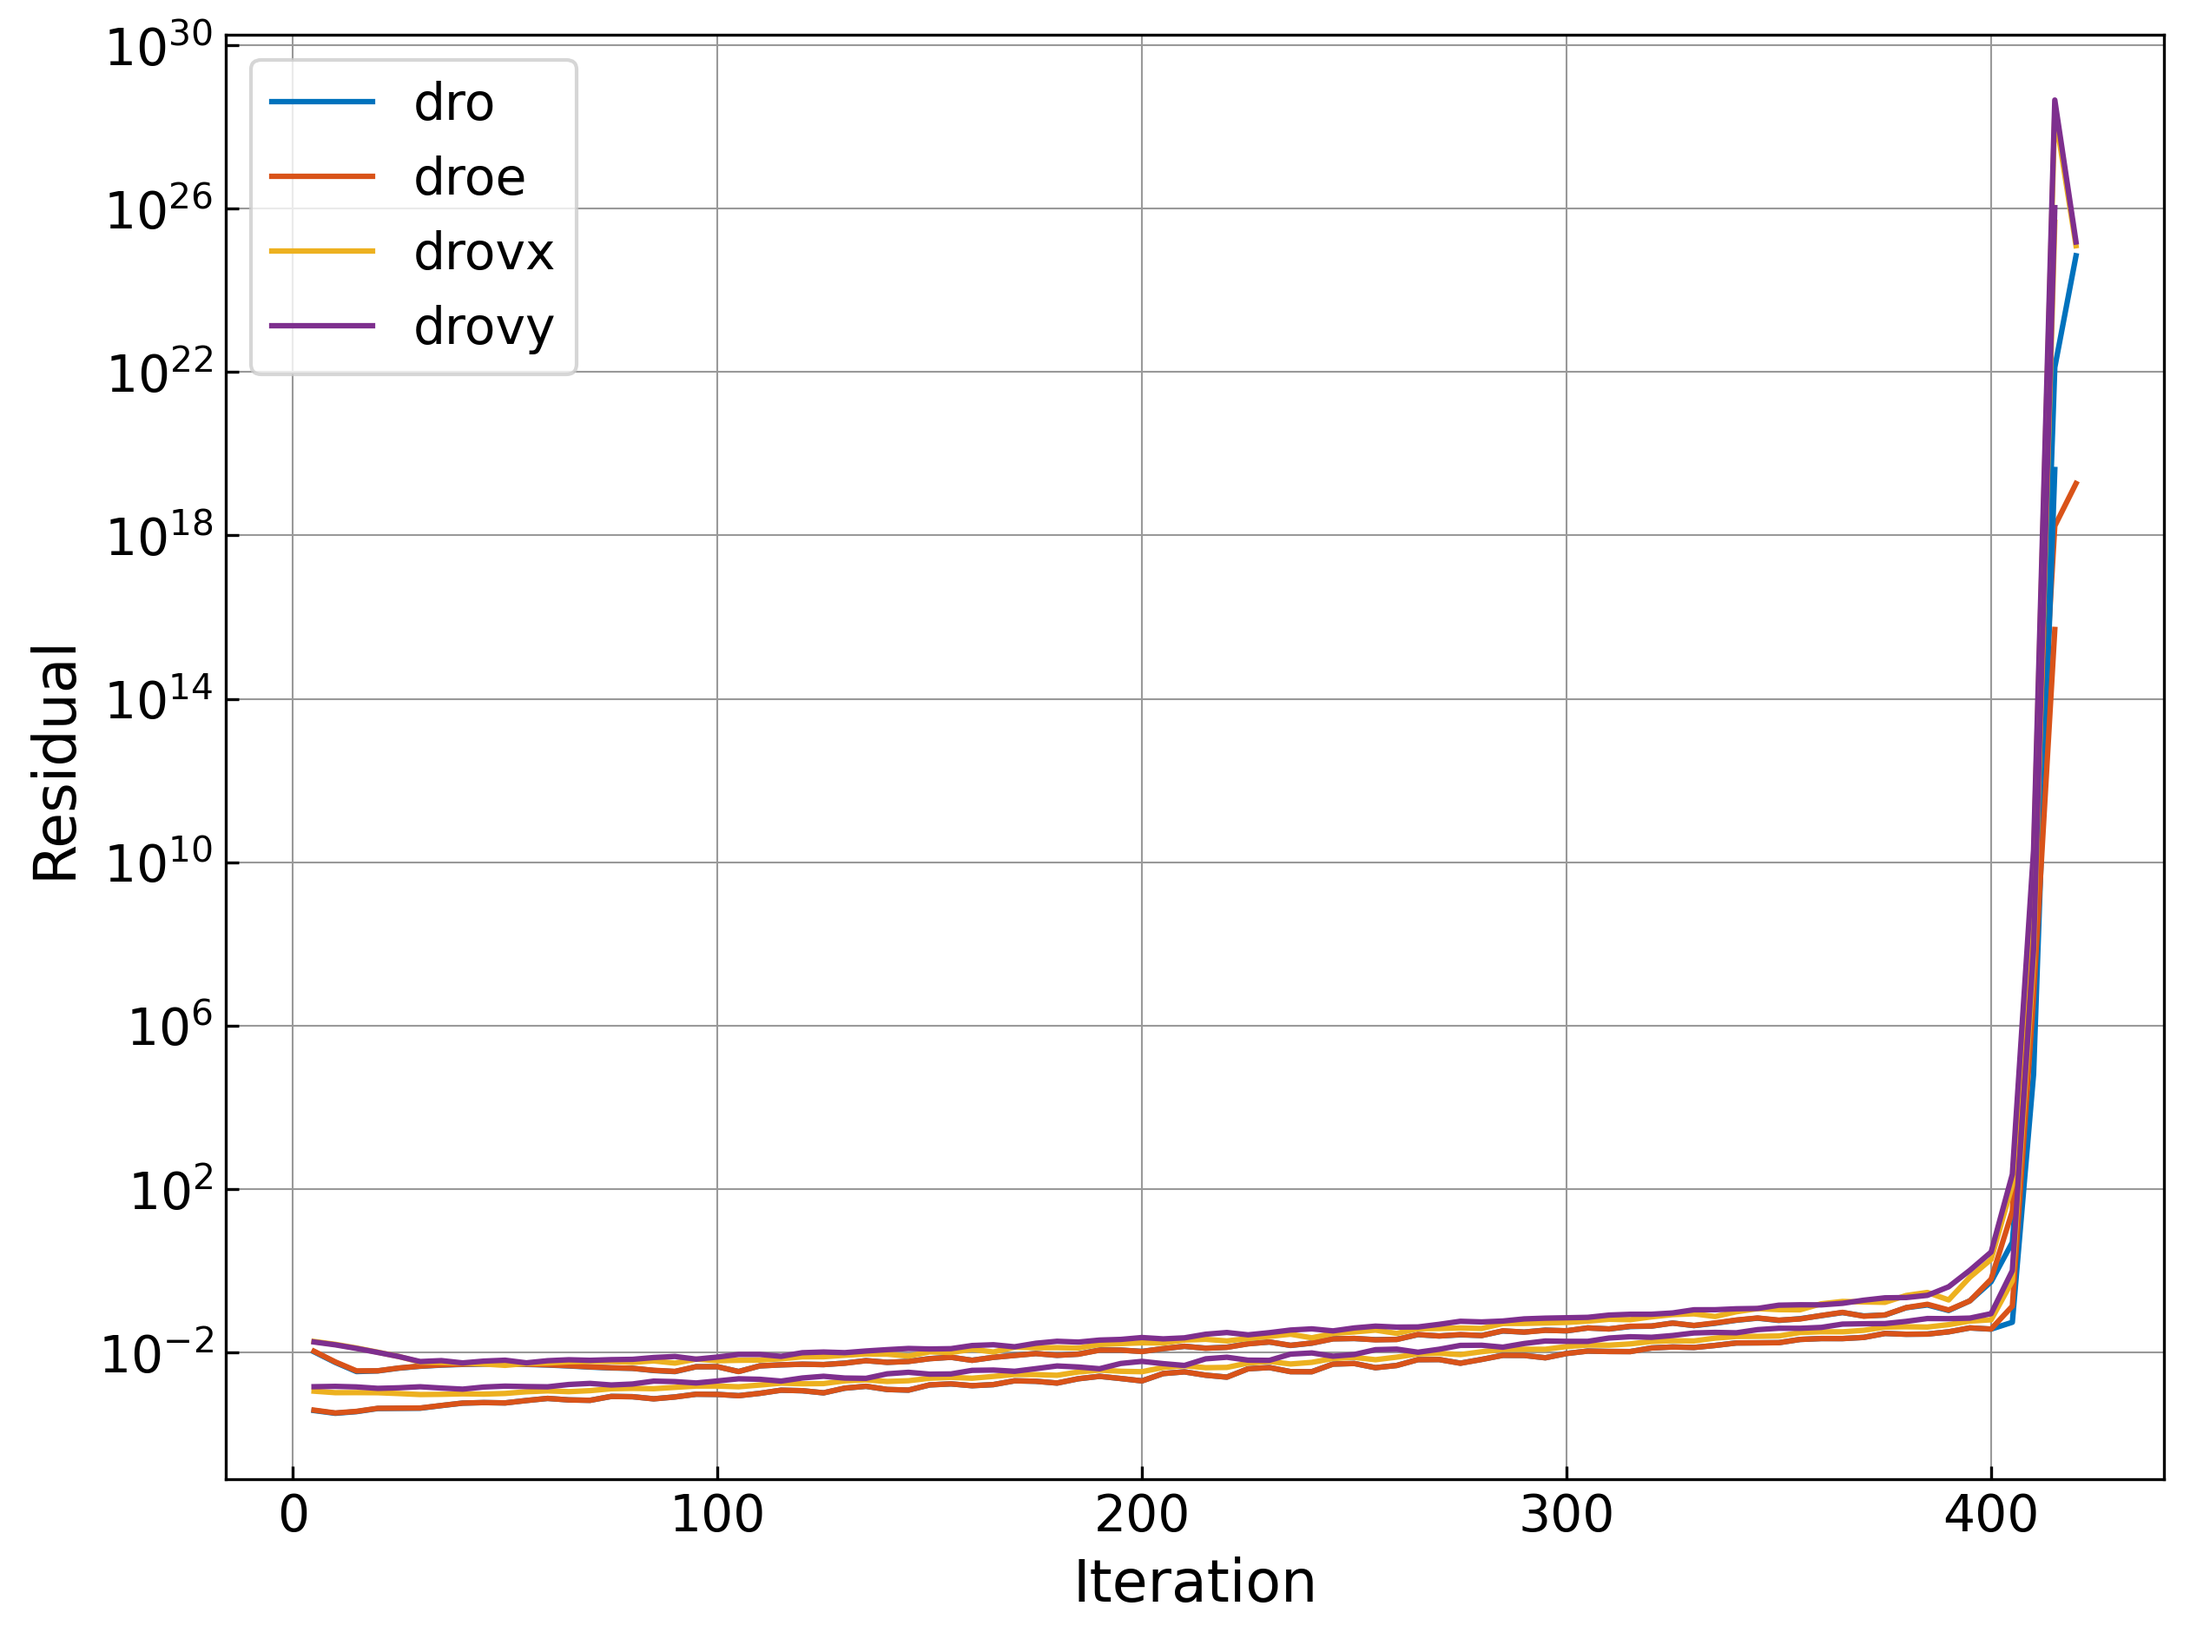
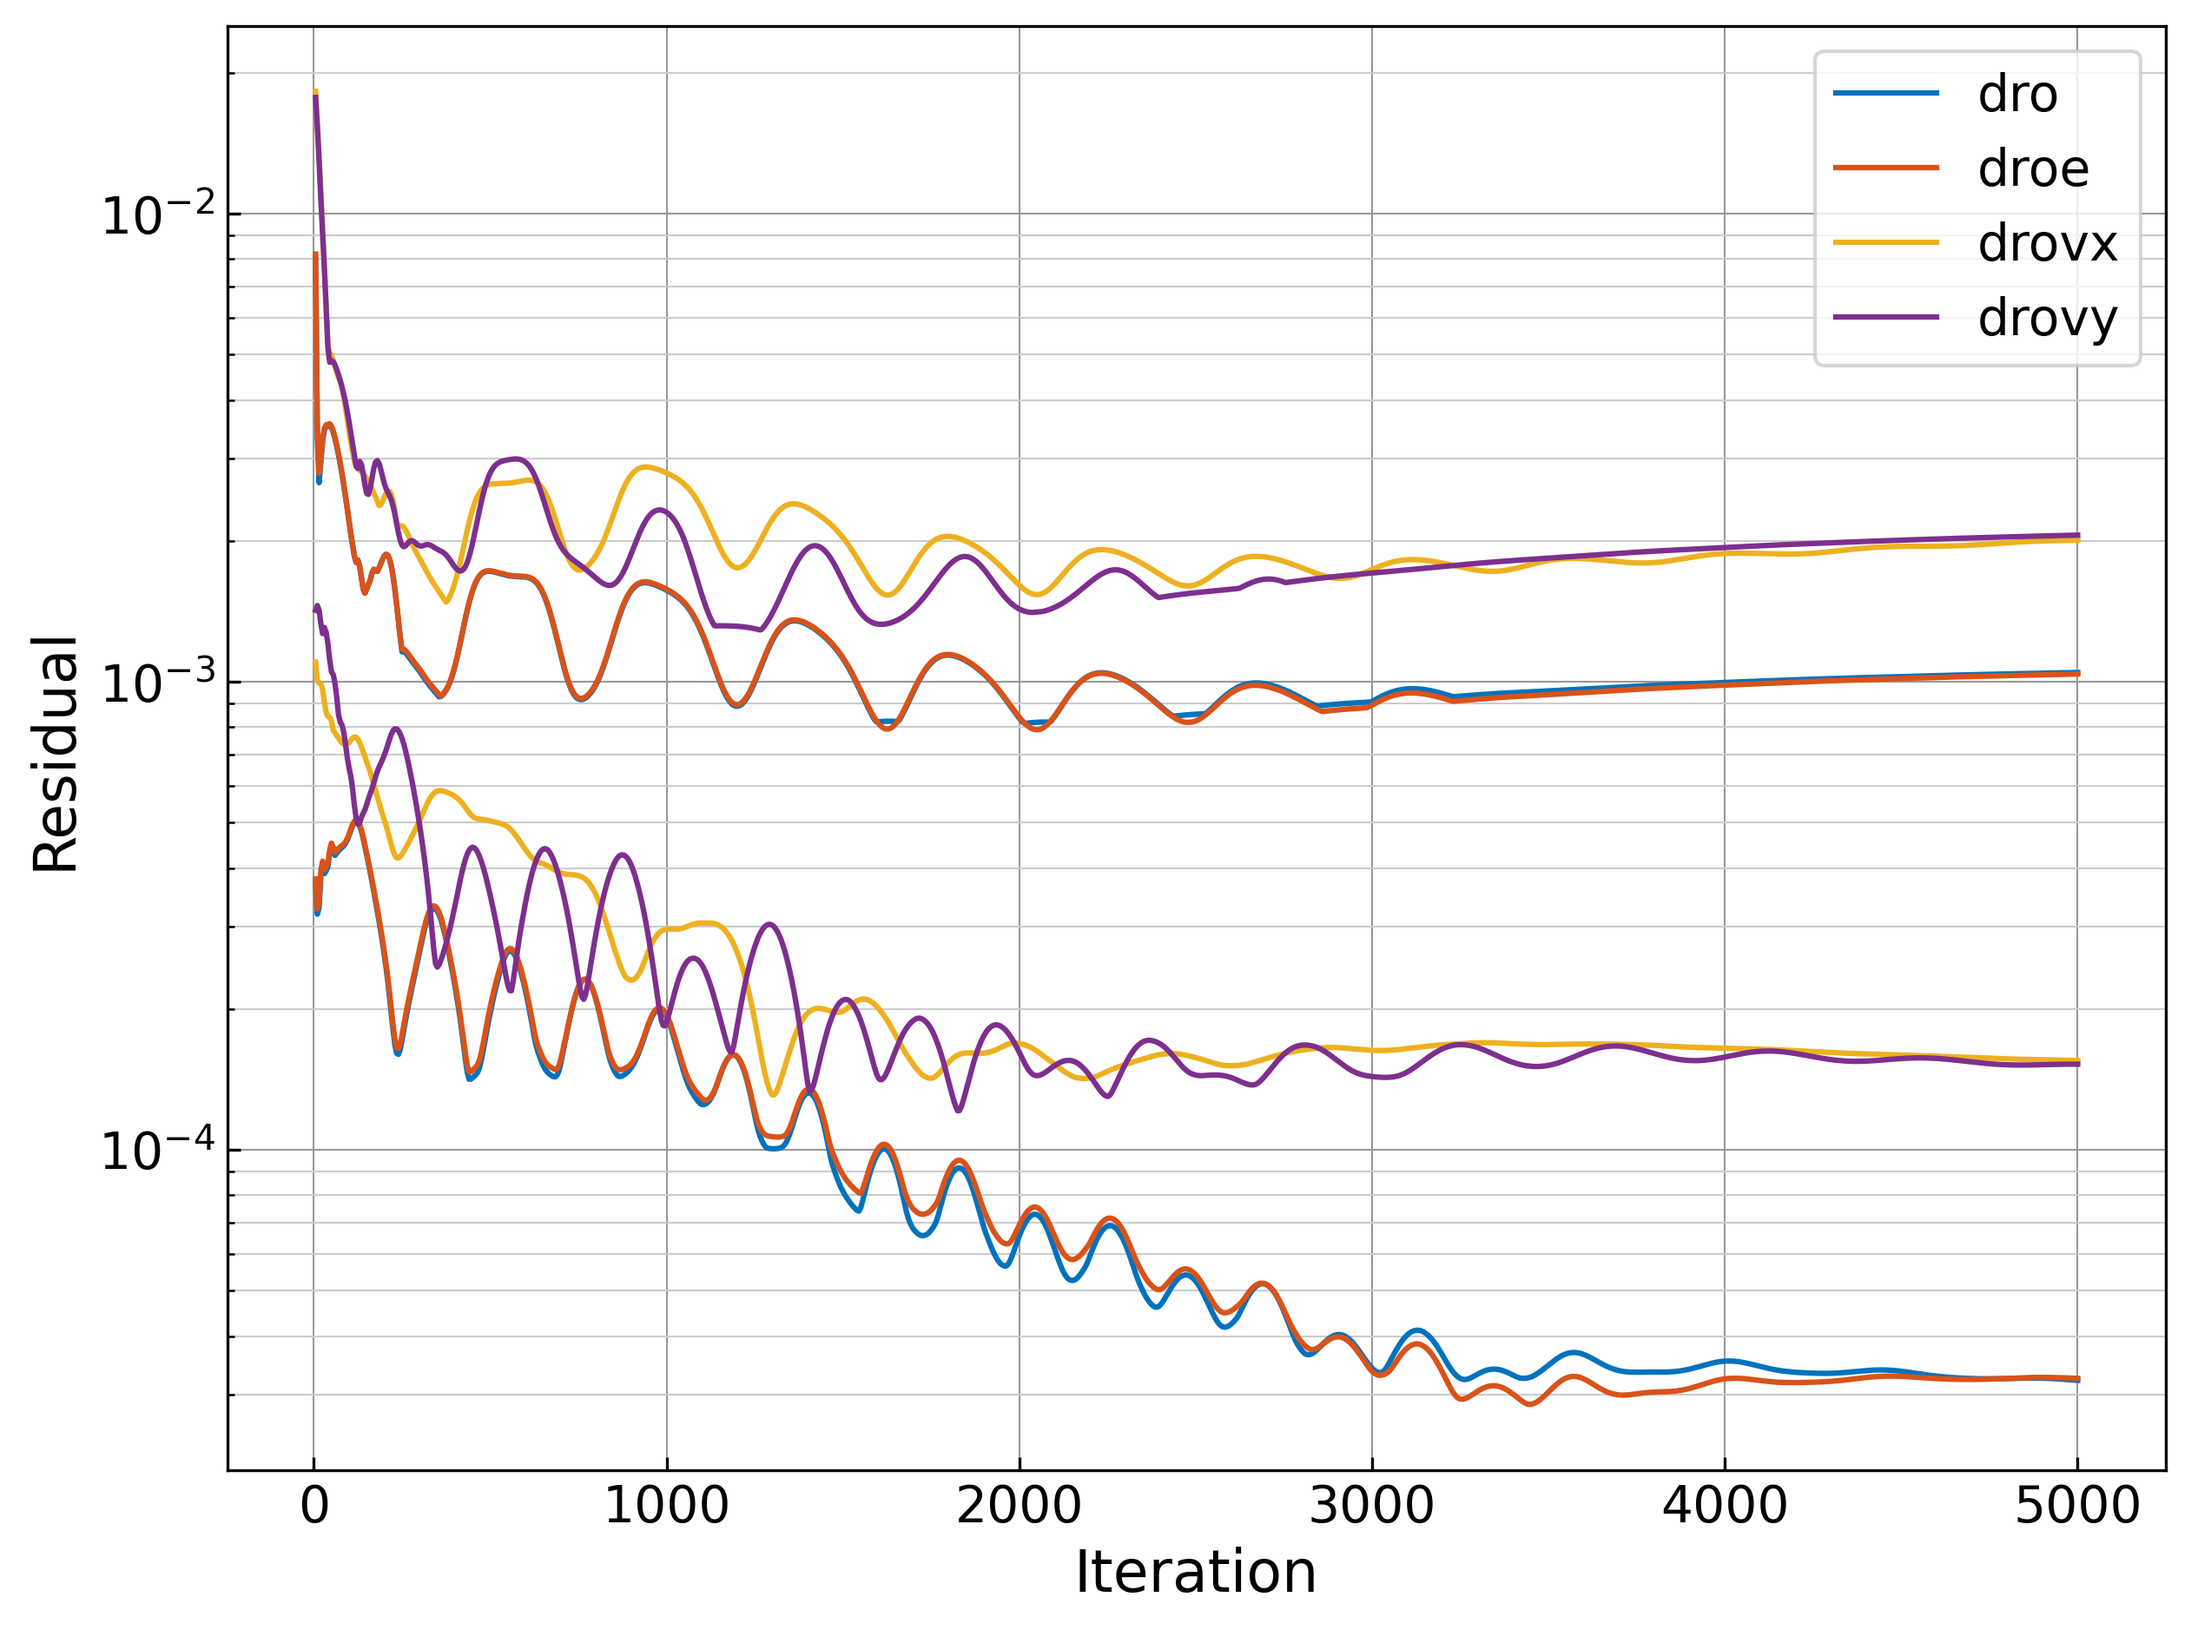
convergence plot, with start of using python plot_contours and routines

diff --git a/Code/plot_contours.py b/Code/plot_contours.py
@@ -32,6 +32,14 @@ def main():
     # reference pressures at the inlet plane and therefore the static pressure
     # coefficient
     # INSERT
+    cut = cut_i(g,0)
+    mass_av = np.mean(cut['ro'] * cut['v'] * cut['area'])
+    area_av = np.mean(cut['area'])
+    g['p_ref'] = mass_av**2 / (av['gam'] * av['rgas'] * area_av**2)
+    g['pstag_ref'] = g['p_ref'] + 0.5 * mass_av**2 / area_av**2
+    g['cp'] = (g['p'] - g['p_ref']) / (g['pstag_ref'] - g['p_ref'])
+    g['mach'] = g['v'] / (av['gam'] * av['rgas'] * g['t'])**0.5
+    # END INSERT
 
     # Specify the parameters to plot
     fieldnames = ['cp', 'mach']; 
@@ -61,7 +69,7 @@ def main():
         plot_wall(ax,g)
 
     # Show all the plots
-    plt.show()
+    plt.savefig('contour_plots.png', dpi=300, bbox_inches='tight')
 
     
 main()

diff --git a/Code/routines.py b/Code/routines.py
@@ -21,6 +21,11 @@ def calc_secondary(av,b):
     # your post-processing, save them into the block "b" dictionary alongside
     # mesh coordinates and primary flow variables.
     # INSERT
+    b['v'] = (b['rovx']**2 + b['rovy']**2)**0.5 / b['ro']
+    b['t'] = (av['gam'] - 1) * (b['roe'] / b['ro'] - 0.5 * b['v']**2) / av['rgas']
+    b['p'] = b['ro'] * av['rgas'] * b['t']
+    # b['cp'] = (b['p'] - b['p_ref']) / (b['pstag_ref'] - b['p_ref'])
+    # b['mach'] = b['v'] / (av['ga'] * av['rgas'] * b['t'])**0.5
 
     return b
 
